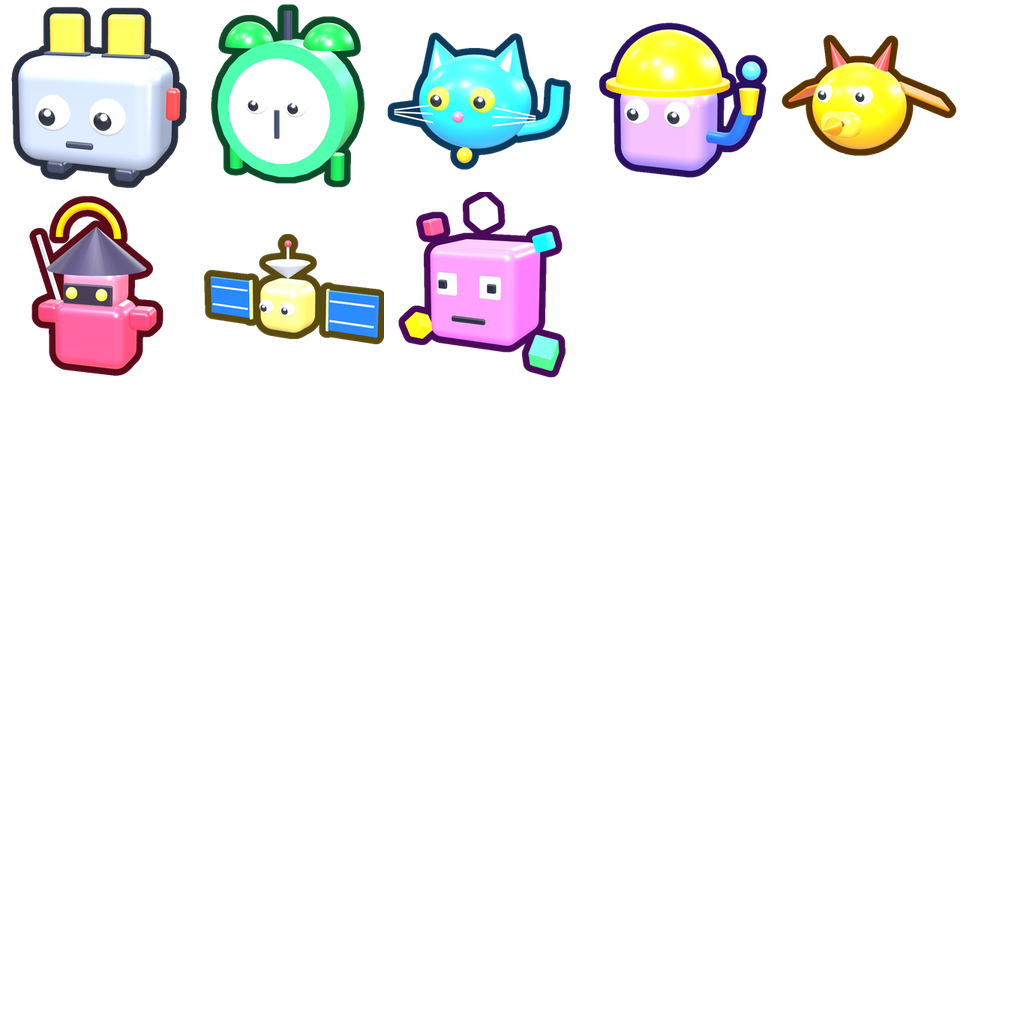
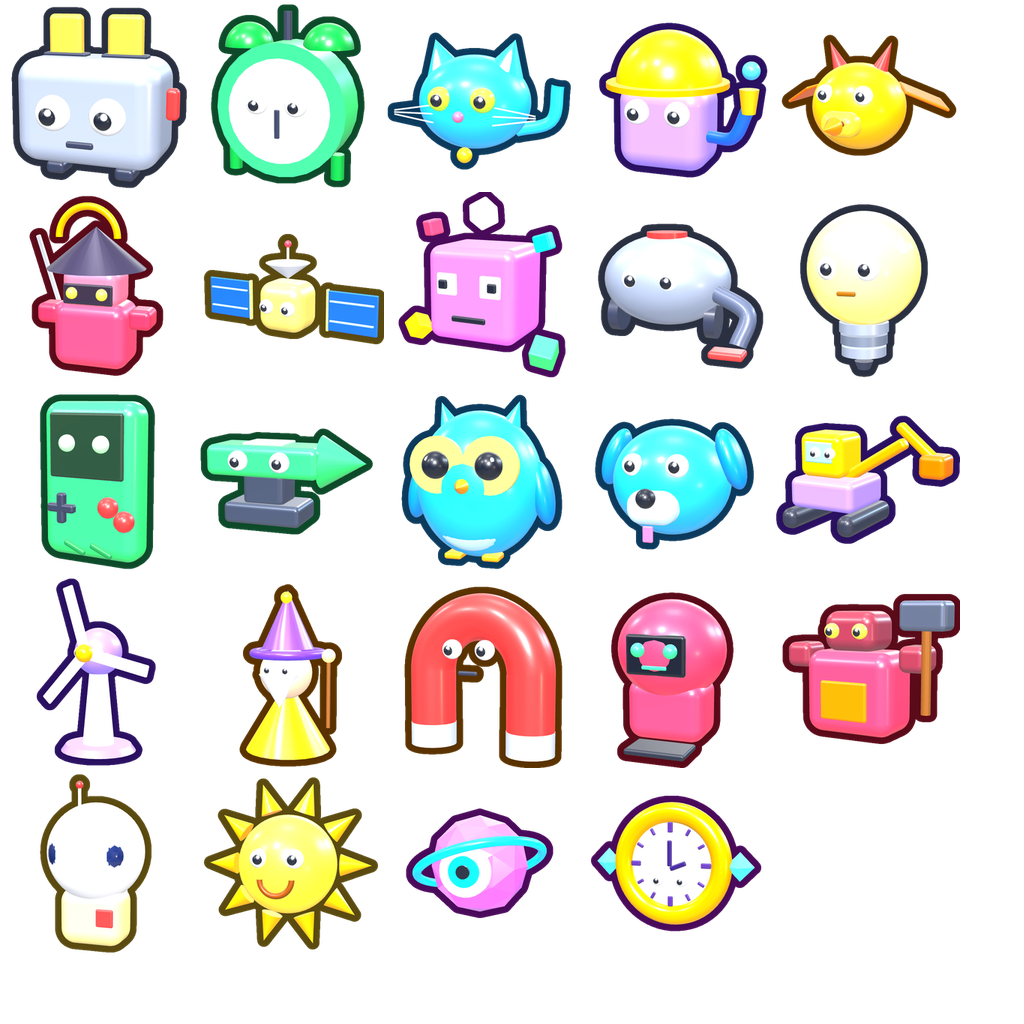
Add all 24 3D bots and a Bots window
Claude-Session: https://claude.ai/code/session_017gRZj1D7xuyxdpJXhPYWcz

diff --git a/tools/render3d/icons.html b/tools/render3d/icons.html
@@ -130,10 +130,13 @@ MODELS.index = () => {
 
 MODELS.drop = () => {
   const g = new THREE.Group();
-  g.add(mesh(new THREE.SphereGeometry(1.08, 64, 64), mat(0x1fc8ff, { roughness: 0.2, emissive: 0x0a7fa6, emissiveIntensity: 0.3 })));
-  g.add(mesh(new THREE.SphereGeometry(0.18, 20, 20), mat(0xffffff, { roughness: 0.1 }), -0.36, 0.5, 0.78));
-  const ring = mesh(new THREE.TorusGeometry(1.06, 0.11, 20, 80), mat(0xffc21a, { metalness: 0.35, roughness: 0.25 }));
-  ring.rotation.set(1.05, 0.2, 0.55); g.add(ring);
+  const core = mesh(new THREE.IcosahedronGeometry(1.05, 1), mat(0x22d0ff, { roughness: 0.16, flatShading: true, emissive: 0x0b86b8, emissiveIntensity: 0.45 }));
+  g.add(core);
+  g.add(mesh(new THREE.IcosahedronGeometry(0.62, 1), mat(0xbdf6ff, { flatShading: true, emissive: 0x7fe8ff, emissiveIntensity: 0.9, roughness: 0.2 })));
+  const ring = mesh(new THREE.TorusGeometry(1.32, 0.12, 20, 80), mat(0xffc21a, { metalness: 0.35, roughness: 0.25 }));
+  ring.rotation.set(1.15, 0.25, 0.5); g.add(ring);
+  for (const [x, y, z, r] of [[-0.7, 0.85, 0.7, 0.1], [0.95, 0.55, 0.5, 0.07], [0.6, -0.9, 0.7, 0.08]])
+    g.add(mesh(new THREE.SphereGeometry(r, 12, 12), mat(0xffffff, { emissive: 0xffffff, emissiveIntensity: 0.9 }), x, y, z));
   g.rotation.set(0.3, -0.4, 0); return g;
 };
 
@@ -323,6 +326,184 @@ MODELS.bot_prototyp = () => {
   }
   g.add(rbox(0.5, 0.08, 0.05, 0.03, mat(0x111827), 0, -0.32, 0.56));
   return finish(g, -0.45, 0.2);
+};
+
+
+// ---- restliche Bots
+const dark = (c = 0x30364a) => mat(c, { roughness: 0.5 });
+MODELS.bot_staubsauger = () => {
+  const g = new THREE.Group(), body = mat(0xa3adc2, { metalness: 0.2 });
+  const dome = mesh(new THREE.SphereGeometry(0.95, 36, 24), body); dome.scale.set(1.15, 0.8, 0.95); g.add(dome);
+  g.add(cyl(0.34, 0.34, 0.16, mat(0xef4444), 0, 0.72, 0));
+  for (const s of [-1, 1]) { const w = cyl(0.3, 0.3, 0.18, dark(), s * 0.85, -0.62, 0.1); w.rotation.z = Math.PI / 2; g.add(w); }
+  eyes(g, 0.1, 0.72, 0.3, 0.19);
+  const hose = new THREE.CatmullRomCurve3([new THREE.Vector3(0.9, -0.1, 0.3), new THREE.Vector3(1.5, -0.4, 0.5), new THREE.Vector3(1.4, -0.85, 0.7)]);
+  g.add(mesh(new THREE.TubeGeometry(hose, 20, 0.14, 10), dark(0x59627a)));
+  g.add(rbox(0.55, 0.12, 0.36, 0.05, mat(0xef4444), 1.25, -0.98, 0.72));
+  return finish(g);
+};
+MODELS.bot_gluehbirne = () => {
+  const g = new THREE.Group();
+  g.add(mesh(new THREE.SphereGeometry(0.95, 40, 32), new THREE.MeshPhysicalMaterial({ color: 0xfff2a0, emissive: 0xffd23f, emissiveIntensity: 0.55, roughness: 0.1, clearcoat: 1 }), 0, 0.35, 0));
+  for (let i = 0; i < 3; i++) g.add(cyl(0.42 - i * 0.02, 0.42 - i * 0.02, 0.16, mat(i % 2 ? 0x8b95a8 : 0xb8c1d4, { metalness: 0.5 }), 0, -0.62 - i * 0.2, 0));
+  g.add(cyl(0.16, 0.1, 0.14, dark(), 0, -1.28, 0));
+  eyes(g, 0.4, 0.82, 0.3, 0.19);
+  g.add(rbox(0.3, 0.07, 0.05, 0.03, dark(0x8a5a00), 0, 0.02, 0.92));
+  return finish(g, -0.3, 0.1);
+};
+MODELS.bot_gameboy = () => {
+  const g = new THREE.Group();
+  g.add(rbox(1.25, 1.85, 0.45, 0.18, mat(0x4ade80), 0, 0, 0));
+  g.add(rbox(0.95, 0.75, 0.06, 0.05, dark(0x1f3a2a), 0, 0.42, 0.24));
+  for (const s of [-1, 1]) { g.add(mesh(new THREE.SphereGeometry(0.1, 12, 12), mat(0xb5ffb0, { emissive: 0x7dff8a, emissiveIntensity: 0.9 }), s * 0.22, 0.45, 0.29)); }
+  g.add(rbox(0.36, 0.1, 0.1, 0.03, dark(), -0.32, -0.32, 0.26)); g.add(rbox(0.1, 0.36, 0.1, 0.03, dark(), -0.32, -0.32, 0.26));
+  for (const [x, y] of [[0.3, -0.26], [0.5, -0.4]]) g.add(mesh(new THREE.SphereGeometry(0.12, 14, 14), mat(0xef4444), x, y, 0.27));
+  g.add(rbox(0.3, 0.07, 0.06, 0.03, dark(0x2c8a52), -0.15, -0.78, 0.25).rotateZ(-0.4)); g.add(rbox(0.3, 0.07, 0.06, 0.03, dark(0x2c8a52), 0.2, -0.78, 0.25).rotateZ(-0.4));
+  return finish(g, -0.5, 0.15);
+};
+MODELS.bot_amboss = () => {
+  const g = new THREE.Group(), iron = mat(0x4b5468, { metalness: 0.4, roughness: 0.35 }), green = mat(0x4ade80);
+  g.add(rbox(1.3, 0.34, 0.85, 0.08, iron, 0, -0.75, 0));
+  g.add(rbox(0.7, 0.55, 0.65, 0.1, iron, 0, -0.35, 0));
+  g.add(rbox(1.9, 0.5, 0.9, 0.12, green, 0, 0.1, 0));
+  const horn = cone(0.42, 0.7, green, 1.25, 0.1, 0); horn.rotation.z = -Math.PI / 2; g.add(horn);
+  eyes(g, 0.12, 0.47, 0.35, 0.16);
+  g.add(rbox(0.7, 0.05, 0.6, 0.02, mat(0xb9f8cf), 0, 0.37, 0));
+  return finish(g);
+};
+MODELS.bot_eule = () => {
+  const g = new THREE.Group(), body = mat(0x38bdf8);
+  const b = mesh(new THREE.SphereGeometry(1, 40, 32), body); b.scale.set(1, 1.15, 0.9); g.add(b);
+  const belly = mesh(new THREE.SphereGeometry(0.7, 28, 20), mat(0xc9ecff), 0, -0.25, 0.42); belly.scale.set(1, 1.05, 0.5); g.add(belly);
+  for (const s of [-1, 1]) {
+    const tuft = cone(0.2, 0.5, body, s * 0.55, 1.05, 0); tuft.rotation.z = -s * 0.35; g.add(tuft);
+    g.add(cyl(0.42, 0.42, 0.1, mat(0xffe27a), s * 0.4, 0.35, 0.8).rotateX(Math.PI / 2));
+    g.add(mesh(new THREE.SphereGeometry(0.2, 16, 16), mat(0x111827), s * 0.4, 0.35, 0.88));
+    g.add(mesh(new THREE.SphereGeometry(0.07, 10, 10), mat(0xffffff), s * 0.46, 0.42, 0.98));
+    const wing = mesh(new THREE.SphereGeometry(0.5, 20, 16), mat(0x1c8fd6), s * 1.0, -0.1, 0); wing.scale.set(0.35, 1, 0.6); wing.rotation.z = s * 0.2; g.add(wing);
+    g.add(rbox(0.28, 0.1, 0.34, 0.04, mat(0xffa02e), s * 0.3, -1.08, 0.3));
+  }
+  g.add(cone(0.14, 0.32, mat(0xffa02e), 0, 0.05, 0.98).rotateX(Math.PI / 2));
+  return finish(g, -0.3, 0.1);
+};
+MODELS.bot_hund = () => {
+  const g = new THREE.Group(), body = mat(0x38bdf8);
+  const head = mesh(new THREE.SphereGeometry(0.9, 36, 28), body); head.scale.set(1.05, 0.95, 0.95); g.add(head);
+  for (const s of [-1, 1]) {
+    const ear = mesh(new THREE.SphereGeometry(0.42, 20, 16), mat(0x1c8fd6), s * 0.95, 0.35, 0); ear.scale.set(0.45, 1.15, 0.7); ear.rotation.z = s * 0.35; g.add(ear);
+  }
+  g.add(rbox(0.75, 0.5, 0.55, 0.22, mat(0xd6f1ff), 0, -0.32, 0.78));
+  g.add(mesh(new THREE.SphereGeometry(0.14, 16, 16), dark(0x111827), 0, -0.16, 1.08));
+  g.add(rbox(0.16, 0.24, 0.05, 0.05, mat(0xff7aa8), 0, -0.68, 1.0));
+  eyes(g, 0.28, 0.72, 0.34, 0.17);
+  return finish(g, -0.35, 0.1);
+};
+MODELS.bot_bagger = () => {
+  const g = new THREE.Group(), body = mat(0xa78bfa);
+  for (const s of [-1, 1]) g.add(rbox(0.36, 0.4, 1.7, 0.16, dark(0x2b2f3f), s * 0.62, -0.8, 0));
+  g.add(rbox(1.4, 0.6, 1.3, 0.14, body, 0, -0.3, 0));
+  g.add(rbox(0.95, 0.85, 0.9, 0.16, mat(0xffc21a), -0.12, 0.42, 0));
+  g.add(rbox(0.6, 0.4, 0.06, 0.05, mat(0x9fdcff, { roughness: 0.1 }), -0.12, 0.5, 0.47));
+  eyes(g, 0.5, 0.52, 0.16, 0.11);
+  const arm = rbox(1.5, 0.22, 0.24, 0.08, mat(0xf59e0b), 0.85, 0.35, 0); arm.rotation.z = 0.55; g.add(arm);
+  const arm2 = rbox(0.95, 0.2, 0.22, 0.08, mat(0xf59e0b), 1.7, 0.75, 0); arm2.rotation.z = -0.7; g.add(arm2);
+  g.add(rbox(0.5, 0.42, 0.55, 0.1, mat(0xd97706), 2.08, 0.35, 0));
+  return finish(g, -0.5, 0.2);
+};
+MODELS.bot_windrad = () => {
+  const g = new THREE.Group();
+  g.add(cyl(0.16, 0.34, 1.9, mat(0xe8eef8), 0, -0.4, 0));
+  g.add(cyl(0.7, 0.8, 0.14, mat(0xa78bfa), 0, -1.4, 0));
+  const hub = mesh(new THREE.SphereGeometry(0.5, 32, 24), mat(0xa78bfa), 0, 0.62, 0); g.add(hub);
+  eyes(g, 0.62, 0.42, 0.2, 0.13);
+  const rotor = new THREE.Group(); rotor.position.set(0, 0.62, 0.55);
+  for (let i = 0; i < 3; i++) { const b = rbox(0.24, 1.3, 0.06, 0.05, mat(0xffffff), 0, 0.75, 0); const holder = new THREE.Group(); holder.rotation.z = i * 2.094 + 0.3; holder.add(b); rotor.add(holder); }
+  rotor.add(mesh(new THREE.SphereGeometry(0.18, 16, 16), mat(0xffc21a), 0, 0, 0.05));
+  g.add(rotor);
+  return finish(g, -0.5, 0.1);
+};
+MODELS.bot_zauberer = () => {
+  const g = new THREE.Group();
+  g.add(cone(0.9, 1.5, mat(0xfbbf24), 0, -0.75, 0));                                    // Robe
+  g.add(mesh(new THREE.SphereGeometry(0.55, 28, 20), mat(0xffe0c2), 0, 0.15, 0.1));
+  g.add(cone(0.42, 0.7, mat(0xf3f4f6), 0, -0.2, 0.45).rotateX(Math.PI));                // Bart
+  g.add(mesh(new THREE.TorusGeometry(0.72, 0.09, 12, 40), mat(0x6d3fd6), 0, 0.55, 0).rotateX(Math.PI / 2));
+  g.add(cone(0.55, 1.2, mat(0x7c4dff), 0, 1.25, 0));
+  g.add(mesh(new THREE.SphereGeometry(0.12, 12, 12), mat(0xffd23f, { emissive: 0xffc200, emissiveIntensity: 0.8 }), 0.05, 1.7, 0.2));
+  eyes(g, 0.25, 0.55, 0.2, 0.11);
+  g.add(cyl(0.04, 0.04, 1.4, mat(0x8b5a2b), 1.0, -0.2, 0.3));
+  g.add(mesh(new THREE.SphereGeometry(0.14, 14, 14), mat(0xfff2a0, { emissive: 0xffe066, emissiveIntensity: 1 }), 1.0, 0.55, 0.3));
+  return finish(g, -0.4, 0.12);
+};
+MODELS.bot_magnet = () => {
+  const g = new THREE.Group();
+  g.add(mesh(new THREE.TorusGeometry(0.8, 0.34, 20, 48, Math.PI), mat(0xef4444), 0, 0, 0));
+  for (const s of [-1, 1]) {
+    g.add(cyl(0.34, 0.34, 0.8, mat(0xef4444), s * 0.8, -0.4, 0));
+    g.add(cyl(0.345, 0.345, 0.34, mat(0xe8eef8, { metalness: 0.4 }), s * 0.8, -0.95, 0));
+  }
+  eyes(g, 0.35, 0.34, 0.26, 0.14, 0xffffff);
+  g.add(rbox(0.3, 0.06, 0.05, 0.03, dark(), 0, 0.02, 0.36));
+  g.rotation.set(0.1, -0.5, 0); return g;
+};
+MODELS.bot_hacker = () => {
+  const g = new THREE.Group(), hood = mat(0xfb4b6e);
+  g.add(rbox(1.3, 1.0, 0.9, 0.24, hood, 0, -0.55, 0));
+  const head = mesh(new THREE.SphereGeometry(0.85, 36, 24), hood, 0, 0.4, 0); head.scale.set(1.05, 0.95, 0.95); g.add(head);
+  g.add(rbox(0.95, 0.62, 0.1, 0.1, mat(0x0b1220), 0, 0.4, 0.72));
+  for (const s of [-1, 1]) g.add(mesh(new THREE.SphereGeometry(0.11, 12, 12), mat(0x4dff8a, { emissive: 0x2dff6a, emissiveIntensity: 1 }), s * 0.26, 0.48, 0.79));
+  g.add(rbox(0.4, 0.06, 0.04, 0.02, mat(0x4dff8a, { emissive: 0x2dff6a, emissiveIntensity: 1 }), 0, 0.22, 0.79));
+  g.add(rbox(1.0, 0.1, 0.62, 0.04, dark(0x1f2433), 0, -1.12, 0.55));
+  return finish(g);
+};
+MODELS.bot_schmiedemech = () => {
+  const g = new THREE.Group(), body = mat(0xfb4b6e);
+  g.add(rbox(1.5, 1.3, 0.95, 0.24, body, 0, -0.1, 0));
+  g.add(rbox(0.8, 0.6, 0.08, 0.06, mat(0xff7a1a, { emissive: 0xff5a00, emissiveIntensity: 0.9 }), 0, -0.2, 0.5));
+  g.add(rbox(0.9, 0.62, 0.8, 0.2, mat(0x8b3a4c), 0, 0.85, 0));
+  eyes(g, 0.86, 0.42, 0.24, 0.12, 0xffee66);
+  for (const s of [-1, 1]) g.add(rbox(0.45, 0.4, 0.55, 0.12, mat(0x8b3a4c), s * 1.0, 0.45, 0));
+  g.add(cyl(0.07, 0.07, 1.4, mat(0x8b5a2b), 1.3, 0.4, 0.4));
+  g.add(rbox(0.7, 0.42, 0.42, 0.08, mat(0x6b7388, { metalness: 0.5 }), 1.3, 1.1, 0.4));
+  return finish(g, -0.5, 0.12);
+};
+MODELS.bot_astronaut = () => {
+  const g = new THREE.Group(), suit = mat(0xfff1a8);
+  g.add(rbox(1.15, 1.0, 0.8, 0.26, suit, 0, -0.75, 0));
+  g.add(rbox(0.75, 1.0, 0.4, 0.1, mat(0xdcdff0), 0, -0.6, -0.55));
+  g.add(mesh(new THREE.SphereGeometry(0.85, 40, 28), mat(0xffffff), 0, 0.35, 0));
+  const visor = mesh(new THREE.SphereGeometry(0.66, 32, 24), new THREE.MeshPhysicalMaterial({ color: 0x1b2a5c, roughness: 0.08, clearcoat: 1, envMapIntensity: 1.2 }), 0, 0.35, 0.42); visor.scale.set(1.05, 0.8, 0.6); g.add(visor);
+  for (const s of [-1, 1]) g.add(mesh(new THREE.SphereGeometry(0.09, 10, 10), mat(0xffffff, { emissive: 0xffffff, emissiveIntensity: 0.9 }), s * 0.24, 0.4, 0.86));
+  g.add(rbox(0.3, 0.3, 0.06, 0.03, mat(0xef4444), 0.3, -0.72, 0.42));
+  g.add(cyl(0.03, 0.03, 0.5, mat(0xdcdff0), -0.3, 1.2, 0)); g.add(mesh(new THREE.SphereGeometry(0.07, 10, 10), mat(0xef4444), -0.3, 1.5, 0));
+  return finish(g, -0.35, 0.12);
+};
+MODELS.bot_sonne = () => {
+  const g = new THREE.Group();
+  g.add(mesh(new THREE.SphereGeometry(0.9, 40, 32), mat(0xffe15a, { emissive: 0xffa800, emissiveIntensity: 0.5 })));
+  for (let i = 0; i < 10; i++) { const a = i * Math.PI * 2 / 10; const r = cone(0.2, 0.55, mat(0xffb020, { emissive: 0xff8a00, emissiveIntensity: 0.4 }), Math.cos(a) * 1.25, Math.sin(a) * 1.25, 0); r.rotation.z = a - Math.PI / 2; g.add(r); }
+  eyes(g, 0.15, 0.78, 0.3, 0.17);
+  g.add(mesh(new THREE.TorusGeometry(0.28, 0.05, 10, 24, Math.PI), dark(0x8a4a00), 0, -0.2, 0.86).rotateZ(Math.PI));
+  return finish(g, -0.25, 0.08);
+};
+MODELS.bot_kikern = () => {
+  const g = new THREE.Group();
+  g.add(mesh(new THREE.IcosahedronGeometry(1.0, 1), mat(0xe879f9, { flatShading: true, emissive: 0x9a2bb0, emissiveIntensity: 0.5, roughness: 0.2 })));
+  g.add(cyl(0.5, 0.5, 0.12, mat(0xffffff, { emissive: 0xffffff, emissiveIntensity: 0.4 }), 0, 0, 0.95).rotateX(Math.PI / 2));
+  g.add(cyl(0.3, 0.3, 0.14, mat(0x22d3ee, { emissive: 0x0aa0c0, emissiveIntensity: 0.9 }), 0, 0, 1.0).rotateX(Math.PI / 2));
+  g.add(cyl(0.13, 0.13, 0.16, dark(0x111827), 0, 0, 1.04).rotateX(Math.PI / 2));
+  const ring = mesh(new THREE.TorusGeometry(1.3, 0.09, 14, 60), mat(0x22d3ee, { emissive: 0x0a90b0, emissiveIntensity: 0.6 })); ring.rotation.set(1.2, 0.3, 0); g.add(ring);
+  return finish(g, -0.3, 0.15);
+};
+MODELS.bot_zeitwaechter = () => {
+  const g = new THREE.Group();
+  g.add(mesh(new THREE.TorusGeometry(1.0, 0.2, 20, 64), mat(0xffc21a, { metalness: 0.35, roughness: 0.25 })));
+  g.add(cyl(0.88, 0.88, 0.14, mat(0xf5d0ff), 0, 0, 0).rotateX(Math.PI / 2));
+  for (let i = 0; i < 12; i++) { const a = i * Math.PI / 6; g.add(rbox(i % 3 ? 0.06 : 0.1, i % 3 ? 0.14 : 0.2, 0.05, 0.02, dark(0x4a2c7a), Math.cos(a) * 0.72, Math.sin(a) * 0.72, 0.1).rotateZ(a - Math.PI / 2)); }
+  const h1 = rbox(0.09, 0.5, 0.05, 0.03, dark(0x2a1060), 0, 0.22, 0.14); g.add(h1); const h2 = rbox(0.09, 0.34, 0.05, 0.03, dark(0x2a1060), 0.17, -0.02, 0.14); h2.rotation.z = -1.2; g.add(h2);
+  eyes(g, -0.3, 0.16, 0.24, 0.11);
+  for (const s of [-1, 1]) g.add(mesh(new THREE.OctahedronGeometry(0.28), mat(0x66d9ff, { emissive: 0x22b8ff, emissiveIntensity: 0.7, flatShading: true }), s * 1.35, 0, 0));
+  return finish(g, -0.35, 0.12);
 };
 
 // ---------------------------------------------------------------- Rendern

diff --git a/tools/make_ui_atlas.py b/tools/make_ui_atlas.py
@@ -283,6 +283,14 @@ ICONS3D = {
 BOTS = {
     "bot_toaster": "#2a3040", "bot_wecker": "#0d4a2a", "bot_katze": "#0c3a5c", "bot_feuerwehr": "#2a1060",
     "bot_drache": "#5a3200", "bot_samurai": "#5a0a18", "bot_satellit": "#5a4a10", "bot_prototyp": "#4a0a5a",
+    "bot_staubsauger": "#2a3040", "bot_gluehbirne": "#2a3040",
+    "bot_gameboy": "#0d4a2a", "bot_amboss": "#0d4a2a",
+    "bot_eule": "#0c3a5c", "bot_hund": "#0c3a5c",
+    "bot_bagger": "#2a1060", "bot_windrad": "#2a1060",
+    "bot_zauberer": "#5a3200", "bot_magnet": "#5a3200",
+    "bot_hacker": "#5a0a18", "bot_schmiedemech": "#5a0a18",
+    "bot_astronaut": "#5a4a10", "bot_sonne": "#5a4a10",
+    "bot_kikern": "#4a0a5a", "bot_zeitwaechter": "#4a0a5a",
 }
 # --- SVG-Platten und Symbole
 tile("close", 448, 224, "red", ico_close, 128)

diff --git a/DESIGN.md b/DESIGN.md
@@ -79,10 +79,10 @@ Danach den Block `local SPR = { ... }` im Skript durch den Inhalt von `atlas_rec
 
 ### Bot-Bilder (optional)
 
-`assets/ui/atlas_bots.png` enthält acht 3D-Bots (einer pro Seltenheit: Toaster, Wecker, Katze, Feuerwehr, Drache,
-Samurai, Satellit, Prototyp). Genauso hochladen und oben `local BOT_ATLAS_ID = "..."` eintragen.
-Sie erscheinen im Index und im Banner (`UI.banner({ bot = "bot_samurai", ... })`). Weitere Bots:
-Modell in `tools/render3d/icons.html` ergänzen und in `BOTS` (`tools/make_ui_atlas.py`) eintragen.
+`assets/ui/atlas_bots.png` enthält alle 24 3D-Bots (drei pro Seltenheit, wie im Prototyp). Genauso hochladen und oben
+`local BOT_ATLAS_ID = "..."` eintragen. Sie erscheinen im Index, im neuen **Bots-Fenster** (Teleport › Bots) und im
+Banner (`UI.banner({ bot = "bot_samurai", ... })`). Für eigene Stellen: `shared.DropABotUI.botSprite(parent, "bot_katze", { sz = UDim2.fromOffset(96, 96) })`.
+Weitere Bots: Modell in `tools/render3d/icons.html` ergänzen und in `BOTS` (`tools/make_ui_atlas.py`) eintragen.
 
 ## Animationen
 
